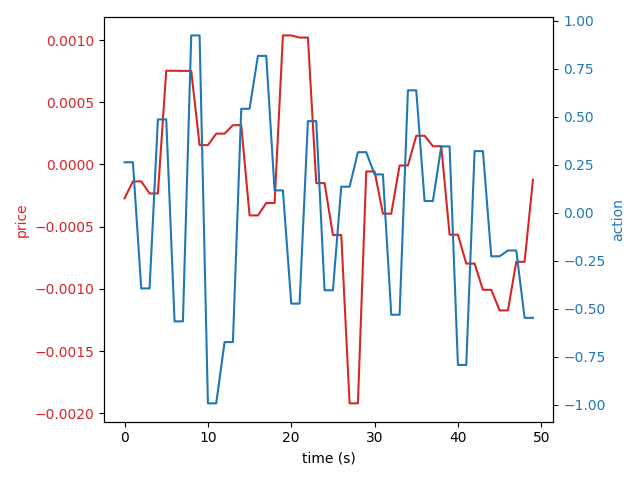
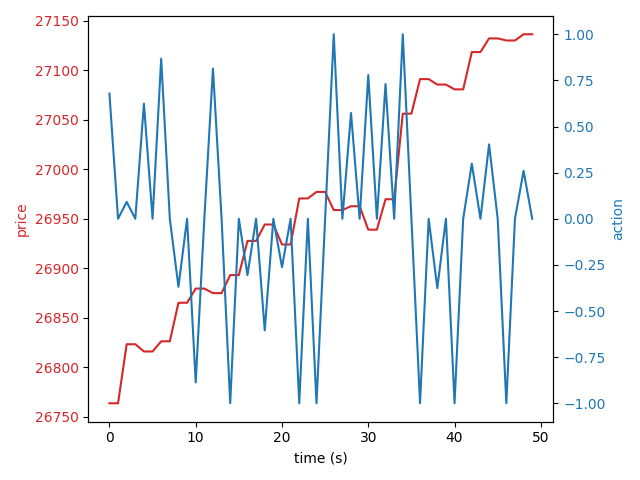
rewarding based on actual profit

diff --git a/Trading_Env.py b/Trading_Env.py
@@ -31,13 +31,15 @@ class TradingEnv(gym.Env):
         self.basePairAmount = 1000  # Initialize starting amount here
         self.AssetAmount = 0  # Initialize starting amount here
 
-        self.current_amount = self.basePairAmount  # Initialize current amount here
+        self.cash = self.basePairAmount  # Initialize current amount here
         self.current_asset_amount = self.AssetAmount  # Initialize current amount here
         # Reset the history at the start of each episode
         self.price_action_history = []
+        self.price_action_history.append((self.basePairAmount,self.AssetAmount,self.ret[self.current_step], 0))
+
 
     def reset(self ,seed=None):
-        self.current_amount = self.basePairAmount  # Reset current amount at the start of each episode
+        self.cash = self.basePairAmount  # Reset current amount at the start of each episode
         self.current_asset_amount = self.AssetAmount  # Initialize starting amount here
         # Reset the number of step the training has taken
         self.current_step = 5
@@ -45,7 +47,7 @@ class TradingEnv(gym.Env):
         # Reset the last action
         self.last_action = 0  # Now a scalar value representing the last amount bought/sold
         # must return np.array type
-        obs = np.append(self.ohlcv[self.current_step-5:self.current_step], [self.current_amount, self.current_asset_amount]).astype(np.float32)        
+        obs = np.append(self.ohlcv[self.current_step-5:self.current_step], [self.cash, self.current_asset_amount]).astype(np.float32)        
         info = {}  # Empty info dictionary
         return obs, info
     
@@ -53,48 +55,54 @@ class TradingEnv(gym.Env):
     def step(self, action):
         amount = action[0]*1000#multiply out from the normalised action space to get to our max spend amount.
         # Append the current price and action to the history
-        self.price_action_history.append((self.ret[self.current_step], action[0]))
+        last_price_history = self.price_action_history[self.current_step-self.current_step-1]
+        last_cash_value= last_price_history[0]
+        last_asset_value= last_price_history[1]
+        last_portfolio_value = last_cash_value+last_asset_value
+        
+        current_price = self.ret[self.current_step]
+        last_price = self.ret[self.current_step-1] if self.ret[self.current_step-1] else current_price
+        change = current_price-last_price
         if amount > 0:  # Buying
-            if amount * (1 + self.trading_cost) > self.current_amount:
-                self.reward = -0.01 # Punishment
+            if amount * (1 + self.trading_cost) > self.cash:
+                self.reward =-0.01 # Punishment
             else:
-                change = (1 + self.ret[self.current_step] - self.trading_cost)
-                self.current_amount -= amount * change
-                self.current_asset_amount += amount
-                # self.reward =+ np.log1p(change)
-                self.reward = np.log1p(change)
+                self.cash -= amount
+                self.current_asset_amount += amount/current_price                  
         elif amount < 0:  # Selling
             if abs(amount) > self.current_asset_amount:
-                self.reward = -0.01  # Punishment
+                self.reward =-0.01  # Punishment
             else:
-                change = (1 + -1 * self.ret[self.current_step] - self.trading_cost)
-                self.current_amount -= amount * change  # Subtract because amount is negative
-                self.current_asset_amount += amount  # Add because amount is negative
-                # self.reward =+ np.log1p(change)
-                self.reward = np.log1p(change)
+                #becauase we are dealing with negatives. We need to reverse
+                self.cash -= amount   
+                self.current_asset_amount += amount /current_price 
         elif amount ==0:  # Holding
-            change = 1
             # self.reward =+ np.log1p(change)
-            self.reward = np.log1p(change)
+            self.reward = change
         else:
             raise ValueError("Received invalid action={} which is not part of the action space".format(action))
+        current_portfolio_value = self.cash+(self.current_asset_amount*current_price)
+        change =  last_portfolio_value - current_portfolio_value
+        self.reward += change
         # self.reward = self.reward*10
         self.last_action = action
         self.current_step += 1
+        self.price_action_history.append((self.cash,self.current_asset_amount,self.ret[self.current_step], action[0]))
 
         # Have we iterate all data points?
         done = (self.current_step == self.ret.shape[0]-1)
-        
+        # print(f"Step: {self.current_step}, Action: {amount}, Reward: {self.reward}, Cash: {self.cash}, Asset: {self.current_asset_amount}, Total: {current_portfolio_value} ")
+
         # Return observation, reward, terminated, truncated, and info dictionary
-        observation = np.append(self.ohlcv[self.current_step-5:self.current_step], [self.current_amount, self.current_asset_amount]).astype(np.float32)        
+        observation = np.append(self.ohlcv[self.current_step-5:self.current_step], [self.cash, self.current_asset_amount]).astype(np.float32)        
         truncated = False  # You'll need to define this based on your environment's logic
         info = {}  # Empty info dictionary
-        self.price_action_history.append((self.ret[self.current_step], action[0]))
+        self.price_action_history.append((self.basePairAmount,self.AssetAmount,self.ret[self.current_step], 0))
         if(done):
-            print(f"Step: {self.current_step}, Action: {action}, Reward: {self.reward}, Cash: {self.current_amount}, Asset: {self.current_asset_amount}, Total: {self.current_amount+self.current_asset_amount} ")
+            print(f"Step: {self.current_step}, Action: {action}, Reward: {self.reward}, Cash: {self.cash}, Asset: {self.current_asset_amount}, Total: {self.cash+self.current_asset_amount} ")
                         # Plot the price and action over time at the end of each episode
             n=50
-            prices, actions = zip(*self.price_action_history[-n:])
+            cash,asset_amount,prices, actions = zip(*self.price_action_history[-n:])
             fig, ax1 = plt.subplots()
 
             color = 'tab:red'

diff --git a/train.py b/train.py
@@ -15,6 +15,7 @@ from Trading_Env import TradingEnv
 
 
 from api import fetch_ohlcv_range,get_dates_and_data_from_latest_file
+from evaluate import evaluate
 from load_model_or_create_if_not_exist import load_model_or_create_if_not_exist
 from prep_data import prep_data
 from save_model import save_model
@@ -99,64 +100,12 @@ def trainmodel(model: PPO) -> PPO:
 # Close the TensorBoard server
     return model
 
-def evaluate(X_test,y_test,model):
-    equity = [1]
-    last_action = 0
-    trading_cost = 0.01
-    current_amount = 1000  # Initialize starting amount here
-    current_asset_amount = 0  # Initialize starting amount here
-
-    for i in range(5, X_test.shape[0]):
-        observation = np.append(X_test[i-5:i], [current_amount, current_asset_amount]).astype(np.float32)
-        action, _ = model.predict(observation, deterministic=True)
-        print(f"choosing:{action} with data{observation[0]}")
-        currenty_test = y_test[i]
-
-        amount = action[0]*1000  # Extract the amount from the action
-
-        if amount > 0:  # Buying
-            if amount * (1 + trading_cost) > current_amount:
-                reward = -1  # Punishment
-            else:
-                change = (1 + currenty_test - trading_cost)
-                current_amount -= amount * change
-                current_asset_amount += amount
-                reward =+ change
-        elif amount < 0:  # Selling
-            if abs(amount) > current_asset_amount:
-                reward = -1  # Punishment
-            else:
-                change = (1 + -1 * currenty_test - trading_cost)
-                current_amount -= amount * change  # Subtract because amount is negative
-                current_asset_amount += amount  # Add because amount is negative
-                reward =+ change
-        elif amount == 0:  # Holding
-            change = 1
-            reward =+ change
-        else:
-            raise ValueError("Received invalid action={} which is not part of the action space".format(action))
-
-        new = equity[-1] * (1 + reward)  # Calculate new equity value based on the reward
-        equity.append(new)
-        last_action = action
-
-
-    plt.figure(figsize=(15, 10))
-    plt.title("Equity Curve")
-    plt.xlabel("timestep")
-    plt.ylabel("equity")
-    plt.plot(equity)
-    plt.savefig("equity")
-    plt.close()
-
-
-
 def main():
     #get the data
     trainingdata = get_training_data()
     trainingdata = prep_data(trainingdata)
-    ret = np.log(trainingdata/trainingdata.shift(1)).iloc[1:].close
-
+    # ret = np.log(trainingdata/trainingdata.shift(1)).iloc[1:].close
+    ret = trainingdata.shift(1).close
 
     X_train = trainingdata.iloc[:-500].values
     X_test = trainingdata.iloc[-500:].values
@@ -177,9 +126,9 @@ def main():
 
     # explore(env)
     model = load_model_or_create_if_not_exist("model",env)
-    # model = trainmodel(model)
+    model = trainmodel(model)
 
-    evaluate(X_test,y_test,model)
+    # evaluate(X_test,y_test,model,env)
     main()
 
 main()

diff --git a/evaluate.py b/evaluate.py
@@ -1,0 +1,66 @@
+import numpy as np
+from matplotlib import pyplot as plt
+
+from load_model_or_create_if_not_exist import load_model_or_create_if_not_exist
+
+
+def evaluate(X_test,y_test,model,env):
+    equity = [1]
+    last_action = 0
+    trading_cost = 0.01
+    current_amount = 1000  # Initialize starting amount here
+    current_asset_amount = 0  # Initialize starting amount here
+    reward = 0
+        # Create lists to store prices and actions for plotting
+    prices = []
+    actions = []
+    for i in range(5, X_test.shape[0]):
+        observation = np.append(X_test[i-5:i], [current_amount, current_asset_amount]).astype(np.float32)
+
+        model = load_model_or_create_if_not_exist("model",env)
+        action, _ = model.predict(observation, deterministic=True)
+        print(f"choosing:{action} with data{observation}")
+        currenty_test = y_test[i]
+
+        amount = action[0]*1000  # Extract the amount from the action
+
+        if amount > 0:  # Buying
+            if amount * (1 + trading_cost) > current_amount:
+                reward = -1  # Punishment
+            else:
+                change = (1 + currenty_test - trading_cost)
+                current_amount -= amount * change
+                current_asset_amount += amount
+                reward =+ change
+        elif amount < 0:  # Selling
+            if abs(amount) > current_asset_amount:
+                reward = -1  # Punishment
+            else:
+                change = (1 + -1 * currenty_test - trading_cost)
+                current_amount -= amount * change  # Subtract because amount is negative
+                current_asset_amount += amount  # Add because amount is negative
+                reward =+ change
+        elif amount == 0:  # Holding
+            change = 1
+            reward =+ change
+        else:
+            raise ValueError("Received invalid action={} which is not part of the action space".format(action))
+
+        new = equity[-1] * (1 + reward)  # Calculate new equity value based on the reward
+        equity.append(new)
+        last_action = action
+        print(f"Step: {i}, Action: {amount}, Reward: {reward}, Cash: {current_amount}, Asset: {current_asset_amount}, Total: {current_amount+current_asset_amount} ")
+                # Append price and action to the lists
+        prices.append(currenty_test)
+        actions.append(action[0])
+                # After the loop, plot the price and action over time
+    # After the loop, plot the price and action over time for the last 50 time steps
+    plt.figure(figsize=(15, 10))
+    plt.title("Price and Action Over Time (Last 50 Time Steps)")
+    plt.xlabel("Time step")
+    plt.ylabel("Value")
+    plt.plot(prices[-50:], label='Price')
+    plt.plot(actions[-50:], label='Action')
+    plt.legend()
+    plt.savefig("price_and_action_last_50")
+    plt.close()
